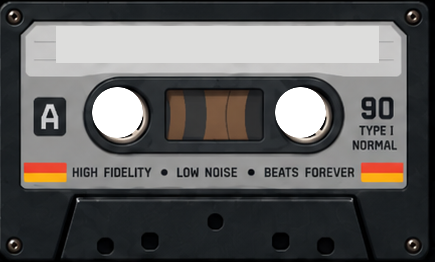
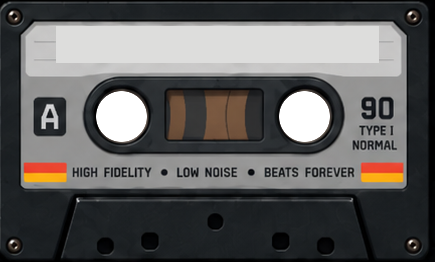
fix(ui): align reels to measured cassette centers

diff --git a/css/looper.css b/css/looper.css
@@ -119,8 +119,8 @@
   z-index:1;width:11.72%;height:auto;aspect-ratio:1;transform-origin:50% 50%;
   animation:looperReelSpin var(--supply-reel-cycle) linear infinite;animation-play-state:paused;will-change:transform;
 }
-#looper .cassetteReelLeft{left:21.03%;top:33.02%}
-#looper .cassetteReelRight{left:63.10%;top:33.02%;animation-duration:var(--takeup-reel-cycle)}
+#looper .cassetteReelLeft{left:21.96%;top:34.55%}
+#looper .cassetteReelRight{left:64.03%;top:34.55%;animation-duration:var(--takeup-reel-cycle)}
 #looper .cassetteDeck.playing .cassetteReel { animation-play-state:running; }
 @keyframes looperReelSpin{to{transform:rotate(360deg)}}
 #looper .cassetteBeatName{

diff --git a/tests/cassette_contract.py b/tests/cassette_contract.py
@@ -18,8 +18,8 @@ cassette=Image.open(assets/'cassette.webp').convert('RGBA')
 assert reader.size == (550,366)
 assert cassette.size == (435,262)
 assert reader.getpixel((275,190))[3] == 0
-assert cassette.getpixel((117,112))[3] == 0
-assert cassette.getpixel((300,112))[3] == 0
+assert cassette.getpixel((121,116))[3] == 0
+assert cassette.getpixel((304,116))[3] == 0
 
 reel=Image.open(assets/'reel-animation.webp').convert('RGBA')
 assert reel.size == (64,64)
